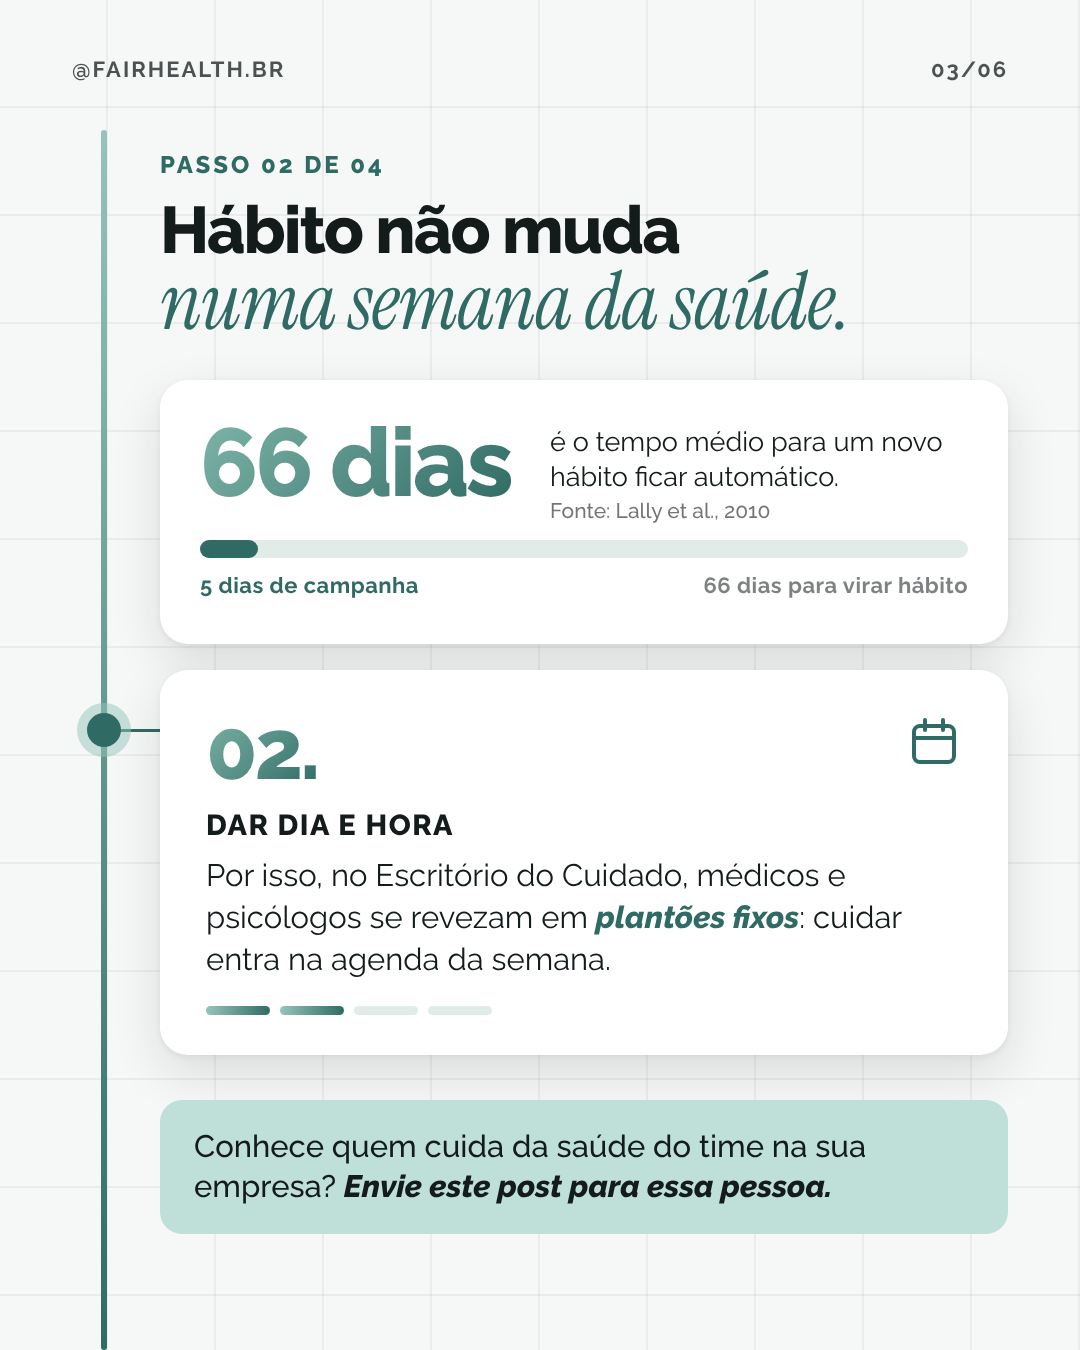
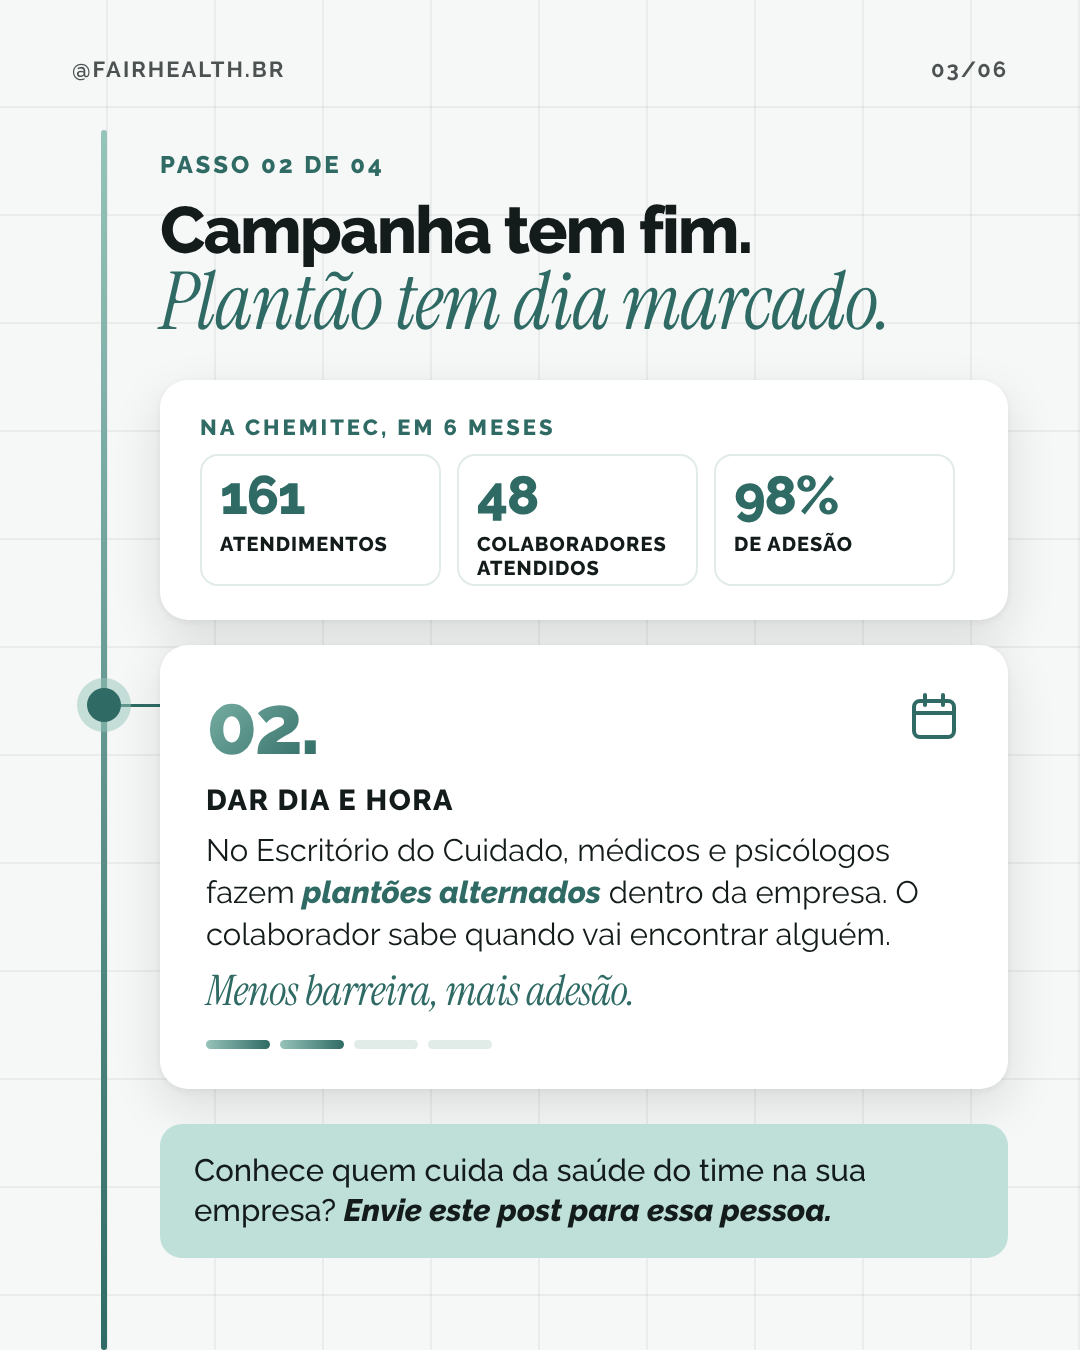
30/10 slide 3: campaign ends, shifts have set days; Chemitec numbers instead of external study
Claude-Session: https://claude.ai/code/session_01WTGmTaRhjyKBgMjzkeci7z

Changed region(s): [[0.1528, 0.3111, 0.9472, 0.9333], [0.1528, 0.1556, 0.825, 0.2489], [0.0611, 0.4978, 0.1222, 0.56]]

diff --git a/instagram/posts/rotina/canva.html b/instagram/posts/rotina/canva.html
@@ -114,10 +114,11 @@ b,em{font-weight:800;font-style:italic}
 .med{background:var(--escuro)}.med-t{color:#fff}
 .psi{background:var(--agua)}.psi-t{color:var(--tinta)}
 .cta{position:absolute;left:160px;right:72px;background:var(--menta);border-radius:22px}
-.dias{position:relative;height:66px;margin-top:22px}
-.dias-f{position:absolute;left:0;right:0;top:0;height:18px;border-radius:9px;background:#E1ECE9}
-.dias-c{position:absolute;left:0;top:0;width:58px;height:18px;border-radius:9px;background:var(--escuro)}
-.dias-l{position:absolute;top:32px;font-size:22px;font-weight:700;letter-spacing:.5px}
+/* Caixas de número (slide 3): número grande, rótulo em caixa alta. */
+.nums{position:relative;height:132px;margin-top:14px}
+.num-c{position:absolute;top:0;width:241px;height:132px;border:2px solid #E1ECE9;border-radius:18px}
+.num-n{position:absolute;top:14px;font-size:54px;font-weight:800;letter-spacing:-1.5px;line-height:1;color:var(--escuro)}
+.num-t{position:absolute;top:78px;width:205px;font-size:20px;font-weight:800;letter-spacing:1px;text-transform:uppercase;line-height:1.2}
 
 /* Indicadores (slide 5). */
 .inds{position:relative;height:148px;margin-top:24px}
@@ -181,35 +182,33 @@ body{background:none;margin:0}
   <p class="fecho abs" style="left:160px;right:72px;bottom:62px">Quando o cuidado está perto, ele cabe no dia.</p>
 </section>
 
-<!-- 3 · PASSO 02 + CTA: por que o cuidado precisa de dia e hora. Hábito leva semanas, uma
-     campanha dura dias; a barra mostra os 5 dias da semana da saúde contra os 66 dias do hábito. -->
+<!-- 3 · PASSO 02 + CTA: campanha tem fim, plantão tem dia marcado. A prova de que vira rotina
+     são os números liberados da Chemitec (voice.md). -->
 <section data-document-role="page" class="slide ed grade" id="r-03">
   <div class="topo"><span>@fairhealth.br</span><span>03/06</span></div>
   <div class="trilho"></div>
   <p class="rotulo abs" style="left:160px;top:150px">Passo 02 de 04</p>
-  <h2 class="h tit" style="top:196px">Hábito não muda</h2>
-  <p class="serif tit-s" style="top:262px">numa semana da saúde.</p>
-  <div class="cartao" style="top:380px;padding:34px 40px 38px">
-    <div style="position:relative;height:104px">
-      <span class="n abs" style="left:0;top:0;font-size:96px">66 dias</span>
-      <div class="abs" style="left:350px;right:0;top:10px"><p class="c" style="margin:0;font-size:27px;line-height:1.3">é o tempo médio para um novo hábito ficar automático.</p><p class="fonte" style="margin-top:4px">Fonte: Lally et al., 2010</p></div>
-    </div>
-    <div class="dias">
-      <div class="dias-f"></div><div class="dias-c"></div>
-      <p class="dias-l" style="left:0;color:var(--escuro)">5 dias de campanha</p>
-      <p class="dias-l" style="right:0;opacity:.55">66 dias para virar hábito</p>
+  <h2 class="h tit" style="top:196px">Campanha tem fim.</h2>
+  <p class="serif tit-s" style="top:262px">Plantão tem dia marcado.</p>
+  <div class="cartao" style="top:380px;padding:34px 40px 34px">
+    <p class="rotulo" style="font-size:22px;margin:0">Na Chemitec, em 6 meses</p>
+    <div class="nums">
+      <div class="num-c" style="left:0px"></div><p class="num-n" style="left:20px">161</p><p class="num-t" style="left:20px">atendimentos</p>
+      <div class="num-c" style="left:257px"></div><p class="num-n" style="left:277px">48</p><p class="num-t" style="left:277px">colaboradores<br>atendidos</p>
+      <div class="num-c" style="left:514px"></div><p class="num-n" style="left:534px">98%</p><p class="num-t" style="left:534px">de adesão</p>
     </div>
   </div>
-  <div class="ponto" style="top:730px"></div><div class="liga" style="top:730px"></div>
-  <div class="cartao" style="top:670px">
+  <div class="ponto" style="top:705px"></div><div class="liga" style="top:705px"></div>
+  <div class="cartao" style="top:645px">
     <span class="n">02.</span>
     <div class="ic"><svg viewBox="0 0 56 56" fill="none" stroke="#2F6B64" stroke-width="4" stroke-linecap="round" stroke-linejoin="round"><rect x="8" y="12" width="40" height="36" rx="6"/><path d="M8 24h40M19 6v10M37 6v10"/></svg></div>
     <p class="t">Dar dia e hora</p>
-    <p class="c">Por isso, no Escritório do Cuidado, médicos e psicólogos se revezam em <b>plantões fixos</b>: cuidar entra na agenda da semana.</p>
+    <p class="c">No Escritório do Cuidado, médicos e psicólogos fazem <b>plantões alternados</b> dentro da empresa. O colaborador sabe quando vai encontrar alguém.</p>
+    <p class="fecho" style="font-size:42px;margin-top:14px">Menos barreira, mais adesão.</p>
     <div class="barra"><i class="on"></i><i class="on"></i><i></i><i></i></div>
   </div>
-  <div class="cta" style="top:1100px;height:134px"></div>
-  <p class="abs" style="left:194px;right:106px;top:1126px;font-size:31px;line-height:1.3;font-weight:500;color:var(--tinta)">Conhece quem cuida da saúde do time na sua empresa? <b>Envie este post para essa pessoa.</b></p>
+  <div class="cta" style="top:1124px;height:134px"></div>
+  <p class="abs" style="left:194px;right:106px;top:1150px;font-size:31px;line-height:1.3;font-weight:500;color:var(--tinta)">Conhece quem cuida da saúde do time na sua empresa? <b>Envie este post para essa pessoa.</b></p>
 </section>
 
 <!-- 4 · PASSO 03: encaminhamento e acompanhamento, com a prova da Chemitec. -->

diff --git a/instagram/posts/rotina/slides.html b/instagram/posts/rotina/slides.html
@@ -71,10 +71,11 @@
 .med{background:var(--escuro)}.med-t{color:#fff}
 .psi{background:var(--agua)}.psi-t{color:var(--tinta)}
 .cta{position:absolute;left:160px;right:72px;background:var(--menta);border-radius:22px}
-.dias{position:relative;height:66px;margin-top:22px}
-.dias-f{position:absolute;left:0;right:0;top:0;height:18px;border-radius:9px;background:#E1ECE9}
-.dias-c{position:absolute;left:0;top:0;width:58px;height:18px;border-radius:9px;background:var(--escuro)}
-.dias-l{position:absolute;top:32px;font-size:22px;font-weight:700;letter-spacing:.5px}
+/* Caixas de número (slide 3): número grande, rótulo em caixa alta. */
+.nums{position:relative;height:132px;margin-top:14px}
+.num-c{position:absolute;top:0;width:241px;height:132px;border:2px solid #E1ECE9;border-radius:18px}
+.num-n{position:absolute;top:14px;font-size:54px;font-weight:800;letter-spacing:-1.5px;line-height:1;color:var(--escuro)}
+.num-t{position:absolute;top:78px;width:205px;font-size:20px;font-weight:800;letter-spacing:1px;text-transform:uppercase;line-height:1.2}
 
 /* Indicadores (slide 5). */
 .inds{position:relative;height:148px;margin-top:24px}
@@ -138,35 +139,33 @@ body{background:none;margin:0}
   <p class="fecho abs" style="left:160px;right:72px;bottom:62px">Quando o cuidado está perto, ele cabe no dia.</p>
 </section>
 
-<!-- 3 · PASSO 02 + CTA: por que o cuidado precisa de dia e hora. Hábito leva semanas, uma
-     campanha dura dias; a barra mostra os 5 dias da semana da saúde contra os 66 dias do hábito. -->
+<!-- 3 · PASSO 02 + CTA: campanha tem fim, plantão tem dia marcado. A prova de que vira rotina
+     são os números liberados da Chemitec (voice.md). -->
 <section class="slide ed grade" id="r-03">
   <div class="topo"><span>@fairhealth.br</span><span>03/06</span></div>
   <div class="trilho"></div>
   <p class="rotulo abs" style="left:160px;top:150px">Passo 02 de 04</p>
-  <h2 class="h tit" style="top:196px">Hábito não muda</h2>
-  <p class="serif tit-s" style="top:262px">numa semana da saúde.</p>
-  <div class="cartao" style="top:380px;padding:34px 40px 38px">
-    <div style="position:relative;height:104px">
-      <span class="n abs" style="left:0;top:0;font-size:96px">66 dias</span>
-      <div class="abs" style="left:350px;right:0;top:10px"><p class="c" style="margin:0;font-size:27px;line-height:1.3">é o tempo médio para um novo hábito ficar automático.</p><p class="fonte" style="margin-top:4px">Fonte: Lally et al., 2010</p></div>
-    </div>
-    <div class="dias">
-      <div class="dias-f"></div><div class="dias-c"></div>
-      <p class="dias-l" style="left:0;color:var(--escuro)">5 dias de campanha</p>
-      <p class="dias-l" style="right:0;opacity:.55">66 dias para virar hábito</p>
+  <h2 class="h tit" style="top:196px">Campanha tem fim.</h2>
+  <p class="serif tit-s" style="top:262px">Plantão tem dia marcado.</p>
+  <div class="cartao" style="top:380px;padding:34px 40px 34px">
+    <p class="rotulo" style="font-size:22px;margin:0">Na Chemitec, em 6 meses</p>
+    <div class="nums">
+      <div class="num-c" style="left:0px"></div><p class="num-n" style="left:20px">161</p><p class="num-t" style="left:20px">atendimentos</p>
+      <div class="num-c" style="left:257px"></div><p class="num-n" style="left:277px">48</p><p class="num-t" style="left:277px">colaboradores<br>atendidos</p>
+      <div class="num-c" style="left:514px"></div><p class="num-n" style="left:534px">98%</p><p class="num-t" style="left:534px">de adesão</p>
     </div>
   </div>
-  <div class="ponto" style="top:730px"></div><div class="liga" style="top:730px"></div>
-  <div class="cartao" style="top:670px">
+  <div class="ponto" style="top:705px"></div><div class="liga" style="top:705px"></div>
+  <div class="cartao" style="top:645px">
     <span class="n">02.</span>
     <div class="ic"><svg viewBox="0 0 56 56" fill="none" stroke="#2F6B64" stroke-width="4" stroke-linecap="round" stroke-linejoin="round"><rect x="8" y="12" width="40" height="36" rx="6"/><path d="M8 24h40M19 6v10M37 6v10"/></svg></div>
     <p class="t">Dar dia e hora</p>
-    <p class="c">Por isso, no Escritório do Cuidado, médicos e psicólogos se revezam em <b>plantões fixos</b>: cuidar entra na agenda da semana.</p>
+    <p class="c">No Escritório do Cuidado, médicos e psicólogos fazem <b>plantões alternados</b> dentro da empresa. O colaborador sabe quando vai encontrar alguém.</p>
+    <p class="fecho" style="font-size:42px;margin-top:14px">Menos barreira, mais adesão.</p>
     <div class="barra"><i class="on"></i><i class="on"></i><i></i><i></i></div>
   </div>
-  <div class="cta" style="top:1100px;height:134px"></div>
-  <p class="abs" style="left:194px;right:106px;top:1126px;font-size:31px;line-height:1.3;font-weight:500;color:var(--tinta)">Conhece quem cuida da saúde do time na sua empresa? <b>Envie este post para essa pessoa.</b></p>
+  <div class="cta" style="top:1124px;height:134px"></div>
+  <p class="abs" style="left:194px;right:106px;top:1150px;font-size:31px;line-height:1.3;font-weight:500;color:var(--tinta)">Conhece quem cuida da saúde do time na sua empresa? <b>Envie este post para essa pessoa.</b></p>
 </section>
 
 <!-- 4 · PASSO 03: encaminhamento e acompanhamento, com a prova da Chemitec. -->
